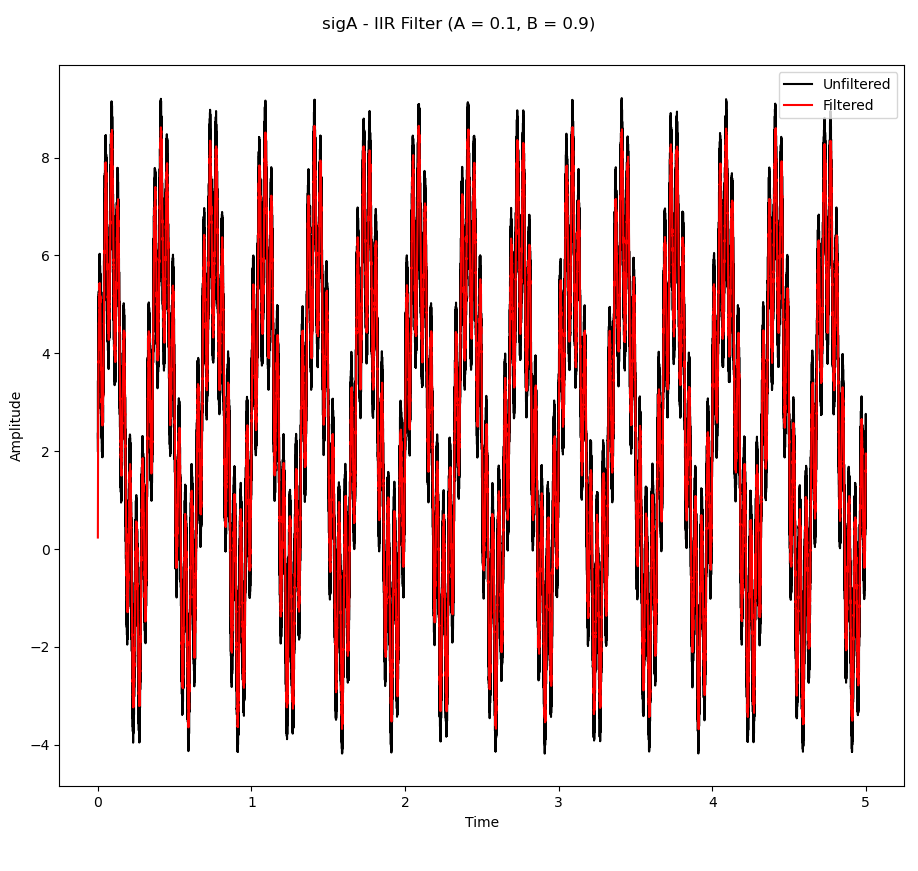
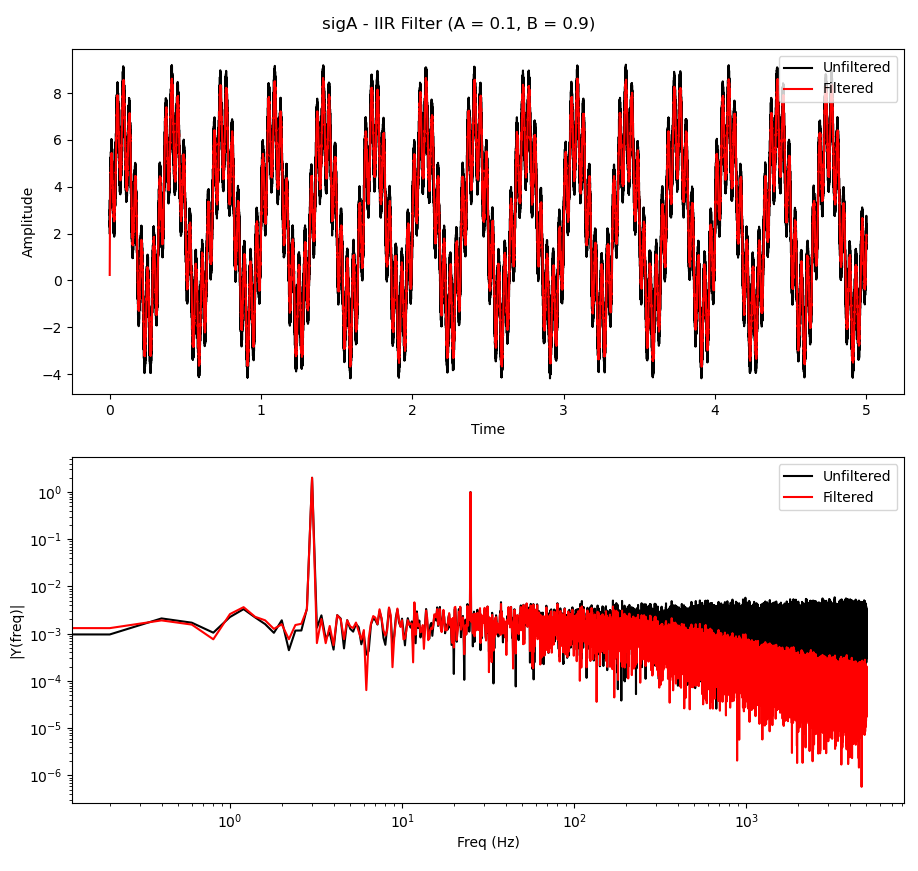
part 7 (v1)

diff --git a/Homework9/hw9.py b/Homework9/hw9.py
@@ -15,16 +15,16 @@ def read_csv(file_name, t, signal):
 
 # fft
 def calc_fft(t, signal):
-    Fs = 10000 # sample rate
-    Ts = 1.0/Fs; # sampling interval
-    ts = np.arange(0,t[-1],Ts) # time vector
-    y = np.interp(ts, t, signal) # the data to make the fft from
-    n = len(y) # length of the signal
+    Fs = 10000
+    Ts = 1.0/Fs
+    ts = np.arange(0,t[-1],Ts)
+    y = np.interp(ts, t, signal)
+    n = len(y)
     k = np.arange(n)
     T = n/Fs
-    frq = k/T # two sides frequency range
-    frq = frq[range(int(n/2))] # one side frequency range
-    Y = np.fft.fft(y)/n # fft computing and normalization
+    frq = k/T
+    frq = frq[range(int(n/2))]
+    Y = np.fft.fft(y)/n
     Y = Y[range(int(n/2))]
 
     # plot
@@ -47,40 +47,58 @@ def moving_avg_filter(signal, x):
     return out
 
 # iir filter
-def iir_filter(data, A, B):
-    datanew = []
+def iir_filter(signal, A, B):
+    sig_new = []
     y_prev = 0
-    for i in range(len(data)):
-        y = A * data[i] + (B) * y_prev
-        datanew.append(y)
+    for i in range(len(signal)):
+        y = A * signal[i] + (B) * y_prev
+        sig_new.append(y)
         y_prev = y
-    return datanew
+    return sig_new
 
 # fir filter
-def fir_filter(data, h):
-    n = len(data)
-    m = len(h)
-    datanew = []
-    for i in range(n):
-        y = 0.0
-        for j in range(m):
-            if i - j >= 0:
-                y += h[j] * data[i - j]
-        datanew.append(y)
-    return datanew
+def fir_filter(signal, h):
+    return np.convolve(np.asarray(signal, dtype=float), h, mode='full')[:len(signal)]
 
 # plot filtered signal
 def plot_filtered(time, original, filtered, title):
-    fig, ax = plt.subplots(figsize=(10, 6))
+    Fs  = 10000
+    Ts  = 1.0 / Fs
+ 
+    # original fft
+    ts_orig = np.arange(0, time[-1], Ts)
+    y_orig  = np.interp(ts_orig, time, original)
+    n_o     = len(y_orig)
+    frq_o   = np.arange(n_o) / (n_o / Fs)
+    frq_o   = frq_o[:n_o // 2]
+    Y_o     = np.fft.fft(y_orig) / n_o
+    Y_o     = Y_o[:n_o // 2]
+ 
+    # filtered fft
+    filt_arr = np.array(filtered)
+    n_f      = len(filt_arr)
+    frq_f    = np.arange(n_f) / (n_f / Fs)
+    frq_f    = frq_f[:n_f // 2]
+    Y_f      = np.fft.fft(filt_arr) / n_f
+    Y_f      = Y_f[:n_f // 2]
+ 
+    fig, (ax1, ax2) = plt.subplots(2, 1, figsize=(10, 8))
     fig.suptitle(title)
-    ax.plot(time, original, 'k', label='Unfiltered')
-    ax.plot(time[:len(filtered)], filtered, 'r', label='Filtered')
-    ax.set_xlabel('Time')
-    ax.set_ylabel('Amplitude')
-    ax.legend()
+ 
+    ax1.plot(time, original, 'k', label='Unfiltered')
+    ax1.plot(time[:len(filtered)], filtered, 'r', label='Filtered')
+    ax1.set_xlabel('Time')
+    ax1.set_ylabel('Amplitude')
+    ax1.legend()
+ 
+    ax2.loglog(frq_o, np.abs(Y_o), 'k', label='Unfiltered')
+    ax2.loglog(frq_f, np.abs(Y_f), 'r', label='Filtered')
+    ax2.set_xlabel('Freq (Hz)')
+    ax2.set_ylabel('|Y(freq)|')
+    ax2.legend()
+ 
     plt.tight_layout()
     plt.show()
-
 
 # read signal csv files
 t_A, signal_A = [], []
@@ -93,10 +111,10 @@ read_csv('sigC.csv', t_C, signal_C)
 read_csv('sigD.csv', t_D, signal_D)
 
 # calculate and plot fft
-# calc_fft(t_A, signal_A)
-# calc_fft(t_B, signal_B)
-# calc_fft(t_C, signal_C)
-# calc_fft(t_D, signal_D)
+calc_fft(t_A, signal_A)
+calc_fft(t_B, signal_B)
+calc_fft(t_C, signal_C)
+calc_fft(t_D, signal_D)
 
 # calculate and plot moving average filter
 maf_A = moving_avg_filter(signal_A, 20)
@@ -115,7 +133,77 @@ iir_B = iir_filter(signal_B, 0.4, 0.6)
 iir_C = iir_filter(signal_C, 0.1, 0.9)
 iir_D = iir_filter(signal_D, 0.1, 0.9)
 
-plot_filtered(t_A, signal_A, iir_A, 'sigA - IIR Filter (A = 0.1, B = 0.9)')
-plot_filtered(t_B, signal_B, iir_B, 'sigB - IIR Filter (A = 0.4, B = 0.6)')
-plot_filtered(t_C, signal_C, iir_C, 'sigC - IIR Filter (A = 0.1, B = 0.9)')
-plot_filtered(t_D, signal_D, iir_D, 'sigD - IIR Filter (A = 0.1, B = 0.9)')
+# plot_filtered(t_A, signal_A, iir_A, 'sigA - IIR Filter (A = 0.1, B = 0.9)')
+# plot_filtered(t_B, signal_B, iir_B, 'sigB - IIR Filter (A = 0.4, B = 0.6)')
+# plot_filtered(t_C, signal_C, iir_C, 'sigC - IIR Filter (A = 0.1, B = 0.9)')
+# plot_filtered(t_D, signal_D, iir_D, 'sigD - IIR Filter (A = 0.1, B = 0.9)')
+
+# calculate and plot fir filter
+# sigA: Fs=500, fc=100Hz, bandwidth=50Hz, Hamming window
+h_A = []
+# sigB: Fs=10000, fc=175Hz, bandwidth=80Hz, Blackman window
+h_B = [0.0000000000, -0.0000000527, -0.0000001821, -0.0000003390, -0.0000004677, -0.0000005079, -0.0000003960, -0.0000000682, 0.0000005385, 0.0000014828, 0.0000028177, 0.0000045877, 0.0000068264, 0.0000095545, 0.0000127778, 0.0000164852, 0.0000206468, 0.0000252134, 0.0000301145, 0.0000352588, 0.0000405332, 0.0000458039, 0.0000509168, 0.0000556992, 0.0000599619, 0.0000635016, 0.0000661042, 0.0000675485, 0.0000676107, 0.0000660688, 0.0000627079, 0.0000573261, 0.0000497402, 0.0000397918, 0.0000273534, 0.0000123349, -0.0000053104, -0.0000255803, -0.0000484179, -0.0000737070, -0.0001012681, -0.0001308549, -0.0001621521, -0.0001947743, -0.0002282663, -0.0002621044, -0.0002956992, -0.0003284007, -0.0003595039, -0.0003882567, -0.0004138691, -0.0004355246, -0.0004523919, -0.0004636393, -0.0004684494, -0.0004660356, -0.0004556591, -0.0004366465, -0.0004084080, -0.0003704555, -0.0003224208, -0.0002640727, -0.0001953336, -0.0001162945, -0.0000272287, 0.0000713970, 0.0001789130, 0.0002944408, 0.0004168898, 0.0005449571, 0.0006771313, 0.0008116998, 0.0009467604, 0.0010802364, 0.0012098961, 0.0013333762, 0.0014482093, 0.0015518549, 0.0016417339, 0.0017152661, 0.0017699113, 0.0018032114, 0.0018128356, 0.0017966255, 0.0017526420, 0.0016792112, 0.0015749695, 0.0014389079, 0.0012704129, 0.0010693046, 0.0008358718, 0.0005709009, 0.0002757010, -0.0000478780, -0.0003974336, -0.0007700050, -0.0011620770, -0.0015695895, -0.0019879566, -0.0024120933, -0.0028364507, -0.0032550591, -0.0036615792, -0.0040493610, -0.0044115090, -0.0047409552, -0.0050305364, -0.0052730774, -0.0054614777, -0.0055888014, -0.0056483686, -0.0056338481, -0.0055393485, -0.0053595087, -0.0050895844, -0.0047255308, -0.0042640793, -0.0037028079, -0.0030402035, -0.0022757147, -0.0014097955, -0.0004439380, 0.0006193072, 0.0017763216, 0.0030224228, 0.0043518807, 0.0057579471, 0.0072328979, 0.0087680880, 0.0103540183, 0.0119804145, 0.0136363162, 0.0153101766, 0.0169899706, 0.0186633104, 0.0203175680, 0.0219400020, 0.0235178878, 0.0250386497, 0.0264899934, 0.0278600368, 0.0291374370, 0.0303115141, 0.0313723670, 0.0323109827, 0.0331193358, 0.0337904772, 0.0343186121, 0.0346991647, 0.0349288290, 0.0350056067, 0.0349288290, 0.0346991647, 0.0343186121, 0.0337904772, 0.0331193358, 0.0323109827, 0.0313723670, 0.0303115141, 0.0291374370, 0.0278600368, 0.0264899934, 0.0250386497, 0.0235178878, 0.0219400020, 0.0203175680, 0.0186633104, 0.0169899706, 0.0153101766, 0.0136363162, 0.0119804145, 0.0103540183, 0.0087680880, 0.0072328979, 0.0057579471, 0.0043518807, 0.0030224228, 0.0017763216, 0.0006193072, -0.0004439380, -0.0014097955, -0.0022757147, -0.0030402035, -0.0037028079, -0.0042640793, -0.0047255308, -0.0050895844, -0.0053595087, -0.0055393485, -0.0056338481, -0.0056483686, -0.0055888014, -0.0054614777, -0.0052730774, -0.0050305364, -0.0047409552, -0.0044115090, -0.0040493610, -0.0036615792, -0.0032550591, -0.0028364507, -0.0024120933, -0.0019879566, -0.0015695895, -0.0011620770, -0.0007700050, -0.0003974336, -0.0000478780, 0.0002757010, 0.0005709009, 0.0008358718, 0.0010693046, 0.0012704129, 0.0014389079, 0.0015749695, 0.0016792112, 0.0017526420, 0.0017966255, 0.0018128356, 0.0018032114, 0.0017699113, 0.0017152661, 0.0016417339, 0.0015518549, 0.0014482093, 0.0013333762, 0.0012098961, 0.0010802364, 0.0009467604, 0.0008116998, 0.0006771313, 0.0005449571, 0.0004168898, 0.0002944408, 0.0001789130, 0.0000713970, -0.0000272287, -0.0001162945, -0.0001953336, -0.0002640727, -0.0003224208, -0.0003704555, -0.0004084080, -0.0004366465, -0.0004556591, -0.0004660356, -0.0004684494, -0.0004636393, -0.0004523919, -0.0004355246, -0.0004138691, -0.0003882567, -0.0003595039, -0.0003284007, -0.0002956992, -0.0002621044, -0.0002282663, -0.0001947743, -0.0001621521, -0.0001308549, -0.0001012681, -0.0000737070, -0.0000484179, -0.0000255803, -0.0000053104, 0.0000123349, 0.0000273534, 0.0000397918, 0.0000497402, 0.0000573261, 0.0000627079, 0.0000660688, 0.0000676107, 0.0000675485, 0.0000661042, 0.0000635016, 0.0000599619, 0.0000556992, 0.0000509168, 0.0000458039, 0.0000405332, 0.0000352588, 0.0000301145, 0.0000252134, 0.0000206468, 0.0000164852, 0.0000127778, 0.0000095545, 0.0000068264, 0.0000045877, 0.0000028177, 0.0000014828, 0.0000005385, -0.0000000682, -0.0000003960, -0.0000005079, -0.0000004677, -0.0000003390, -0.0000001821, -0.0000000527, 0.0000000000]
+# sigC: Fs=10000, fc=6Hz, bandwidth=3Hz, Hamming window
+h_C = [0.0000000000, 0.0000001384, 0.0000005541, 0.0000012482, 0.0000022216, 0.0000034752, 0.0000050097, 0.0000068259, 0.0000089246, 0.0000113064, 0.0000139719, 0.0000169216, 0.0000201561, 0.0000236758, 0.0000274811, 0.0000315723, 0.0000359498, 0.0000406137, 0.0000455643, 0.0000508016, 0.0000563258, 0.0000621368, 0.0000682346, 0.0000746191, 0.0000812902, 0.0000882477, 0.0000954913, 0.0001030206, 0.0001108354, 0.0001189352, 0.0001273195, 0.0001359878, 0.0001449396, 0.0001541741, 0.0001636906, 0.0001734885, 0.0001835669, 0.0001939249, 0.0002045616, 0.0002154761, 0.0002266674, 0.0002381343, 0.0002498757, 0.0002618905, 0.0002741773, 0.0002867349, 0.0002995620, 0.0003126571, 0.0003260188, 0.0003396456, 0.0003535359, 0.0003676880, 0.0003821004, 0.0003967714, 0.0004116990, 0.0004268816, 0.0004423171, 0.0004580039, 0.0004739397, 0.0004901226, 0.0005065506, 0.0005232215, 0.0005401330, 0.0005572831, 0.0005746694, 0.0005922896, 0.0006101413, 0.0006282221, 0.0006465295, 0.0006650611, 0.0006838142, 0.0007027863, 0.0007219746, 0.0007413766, 0.0007609894, 0.0007808102, 0.0008008364, 0.0008210648, 0.0008414927, 0.0008621171, 0.0008829350, 0.0009039433, 0.0009251390, 0.0009465188, 0.0009680798, 0.0009898186, 0.0010117321, 0.0010338168, 0.0010560696, 0.0010784871, 0.0011010658, 0.0011238024, 0.0011466934, 0.0011697353, 0.0011929245, 0.0012162576, 0.0012397308, 0.0012633407, 0.0012870834, 0.0013109554, 0.0013349529, 0.0013590722, 0.0013833094, 0.0014076608, 0.0014321226, 0.0014566909, 0.0014813618, 0.0015061314, 0.0015309957, 0.0015559509, 0.0015809928, 0.0016061177, 0.0016313213, 0.0016565997, 0.0016819487, 0.0017073644, 0.0017328426, 0.0017583792, 0.0017839700, 0.0018096110, 0.0018352978, 0.0018610265, 0.0018867927, 0.0019125922, 0.0019384209, 0.0019642744, 0.0019901486, 0.0020160392, 0.0020419420, 0.0020678526, 0.0020937668, 0.0021196803, 0.0021455888, 0.0021714880, 0.0021973737, 0.0022232415, 0.0022490871, 0.0022749062, 0.0023006945, 0.0023264477, 0.0023521615, 0.0023778316, 0.0024034536, 0.0024290234, 0.0024545365, 0.0024799887, 0.0025053757, 0.0025306932, 0.0025559371, 0.0025811029, 0.0026061864, 0.0026311835, 0.0026560898, 0.0026809011, 0.0027056133, 0.0027302221, 0.0027547234, 0.0027791130, 0.0028033867, 0.0028275403, 0.0028515699, 0.0028754712, 0.0028992402, 0.0029228729, 0.0029463651, 0.0029697129, 0.0029929122, 0.0030159591, 0.0030388496, 0.0030615799, 0.0030841459, 0.0031065438, 0.0031287697, 0.0031508199, 0.0031726905, 0.0031943777, 0.0032158778, 0.0032371872, 0.0032583020, 0.0032792187, 0.0032999337, 0.0033204433, 0.0033407441, 0.0033608324, 0.0033807048, 0.0034003579, 0.0034197882, 0.0034389925, 0.0034579672, 0.0034767092, 0.0034952152, 0.0035134820, 0.0035315064, 0.0035492852, 0.0035668154, 0.0035840938, 0.0036011176, 0.0036178836, 0.0036343891, 0.0036506311, 0.0036666067, 0.0036823133, 0.0036977479, 0.0037129081, 0.0037277910, 0.0037423941, 0.0037567148, 0.0037707507, 0.0037844992, 0.0037979580, 0.0038111247, 0.0038239970, 0.0038365726, 0.0038488493, 0.0038608251, 0.0038724977, 0.0038838651, 0.0038949254, 0.0039056766, 0.0039161168, 0.0039262441, 0.0039360568, 0.0039455532, 0.0039547316, 0.0039635904, 0.0039721280, 0.0039803430, 0.0039882338, 0.0039957991, 0.0040030375, 0.0040099479, 0.0040165289, 0.0040227794, 0.0040286984, 0.0040342847, 0.0040395373, 0.0040444555, 0.0040490382, 0.0040532848, 0.0040571943, 0.0040607662, 0.0040639999, 0.0040668947, 0.0040694501, 0.0040716657, 0.0040735411, 0.0040750760, 0.0040762700, 0.0040771231, 0.0040776350, 0.0040778056, 0.0040776350, 0.0040771231, 0.0040762700, 0.0040750760, 0.0040735411, 0.0040716657, 0.0040694501, 0.0040668947, 0.0040639999, 0.0040607662, 0.0040571943, 0.0040532848, 0.0040490382, 0.0040444555, 0.0040395373, 0.0040342847, 0.0040286984, 0.0040227794, 0.0040165289, 0.0040099479, 0.0040030375, 0.0039957991, 0.0039882338, 0.0039803430, 0.0039721280, 0.0039635904, 0.0039547316, 0.0039455532, 0.0039360568, 0.0039262441, 0.0039161168, 0.0039056766, 0.0038949254, 0.0038838651, 0.0038724977, 0.0038608251, 0.0038488493, 0.0038365726, 0.0038239970, 0.0038111247, 0.0037979580, 0.0037844992, 0.0037707507, 0.0037567148, 0.0037423941, 0.0037277910, 0.0037129081, 0.0036977479, 0.0036823133, 0.0036666067, 0.0036506311, 0.0036343891, 0.0036178836, 0.0036011176, 0.0035840938, 0.0035668154, 0.0035492852, 0.0035315064, 0.0035134820, 0.0034952152, 0.0034767092, 0.0034579672, 0.0034389925, 0.0034197882, 0.0034003579, 0.0033807048, 0.0033608324, 0.0033407441, 0.0033204433, 0.0032999337, 0.0032792187, 0.0032583020, 0.0032371872, 0.0032158778, 0.0031943777, 0.0031726905, 0.0031508199, 0.0031287697, 0.0031065438, 0.0030841459, 0.0030615799, 0.0030388496, 0.0030159591, 0.0029929122, 0.0029697129, 0.0029463651, 0.0029228729, 0.0028992402, 0.0028754712, 0.0028515699, 0.0028275403, 0.0028033867, 0.0027791130, 0.0027547234, 0.0027302221, 0.0027056133, 0.0026809011, 0.0026560898, 0.0026311835, 0.0026061864, 0.0025811029, 0.0025559371, 0.0025306932, 0.0025053757, 0.0024799887, 0.0024545365, 0.0024290234, 0.0024034536, 0.0023778316, 0.0023521615, 0.0023264477, 0.0023006945, 0.0022749062, 0.0022490871, 0.0022232415, 0.0021973737, 0.0021714880, 0.0021455888, 0.0021196803, 0.0020937668, 0.0020678526, 0.0020419420, 0.0020160392, 0.0019901486, 0.0019642744, 0.0019384209, 0.0019125922, 0.0018867927, 0.0018610265, 0.0018352978, 0.0018096110, 0.0017839700, 0.0017583792, 0.0017328426, 0.0017073644, 0.0016819487, 0.0016565997, 0.0016313213, 0.0016061177, 0.0015809928, 0.0015559509, 0.0015309957, 0.0015061314, 0.0014813618, 0.0014566909, 0.0014321226, 0.0014076608, 0.0013833094, 0.0013590722, 0.0013349529, 0.0013109554, 0.0012870834, 0.0012633407, 0.0012397308, 0.0012162576, 0.0011929245, 0.0011697353, 0.0011466934, 0.0011238024, 0.0011010658, 0.0010784871, 0.0010560696, 0.0010338168, 0.0010117321, 0.0009898186, 0.0009680798, 0.0009465188, 0.0009251390, 0.0009039433, 0.0008829350, 0.0008621171, 0.0008414927, 0.0008210648, 0.0008008364, 0.0007808102, 0.0007609894, 0.0007413766, 0.0007219746, 0.0007027863, 0.0006838142, 0.0006650611, 0.0006465295, 0.0006282221, 0.0006101413, 0.0005922896, 0.0005746694, 0.0005572831, 0.0005401330, 0.0005232215, 0.0005065506, 0.0004901226, 0.0004739397, 0.0004580039, 0.0004423171, 0.0004268816, 0.0004116990, 0.0003967714, 0.0003821004, 0.0003676880, 0.0003535359, 0.0003396456, 0.0003260188, 0.0003126571, 0.0002995620, 0.0002867349, 0.0002741773, 0.0002618905, 0.0002498757, 0.0002381343, 0.0002266674, 0.0002154761, 0.0002045616, 0.0001939249, 0.0001835669, 0.0001734885, 0.0001636906, 0.0001541741, 0.0001449396, 0.0001359878, 0.0001273195, 0.0001189352, 0.0001108354, 0.0001030206, 0.0000954913, 0.0000882477, 0.0000812902, 0.0000746191, 0.0000682346, 0.0000621368, 0.0000563258, 0.0000508016, 0.0000455643, 0.0000406137, 0.0000359498, 0.0000315723, 0.0000274811, 0.0000236758, 0.0000201561, 0.0000169216, 0.0000139719, 0.0000113064, 0.0000089246, 0.0000068259, 0.0000050097, 0.0000034752, 0.0000022216, 0.0000012482, 0.0000005541, 0.0000001384, 0.0000000000]
+# sigD: Fs=400, fc=20Hz, bandwidth=44Hz, Blackman window
+h_D = [
+    0.000000000000000000,
+    0.000000000000000000,
+    -0.000043672089000418,
+    -0.000204580160908659,
+    -0.000555065247288825,
+    -0.001141535448085219,
+    -0.001947901083597524,
+    -0.002852691365094061,
+    -0.003592000230068647,
+    -0.003744545898292157,
+    -0.002754370012987700,
+    0.000000000000000001,
+    0.005092825091478808,
+    0.012911651306323034,
+    0.023519782398285741,
+    0.036555430092548170,
+    0.051199390635266052,
+    0.066231008756770515,
+    0.080173155648180755,
+    0.091505518092516613,
+    0.098907300477361626,
+    0.101480598073183395,
+    0.098907300477361640,
+    0.091505518092516627,
+    0.080173155648180769,
+    0.066231008756770501,
+    0.051199390635266039,
+    0.036555430092548177,
+    0.023519782398285758,
+    0.012911651306323031,
+    0.005092825091478812,
+    0.000000000000000001,
+    -0.002754370012987700,
+    -0.003744545898292158,
+    -0.003592000230068644,
+    -0.002852691365094067,
+    -0.001947901083597526,
+    -0.001141535448085218,
+    -0.000555065247288827,
+    -0.000204580160908659,
+    -0.000043672089000418,
+    0.000000000000000000,
+    0.000000000000000000,
+]
+
+# calculate and plot fir filter
+h_A = np.array(h_A)
+h_B = np.array(h_B)
+h_C = np.array(h_C)
+h_D = np.array(h_D)
+
+fir_A = fir_filter(signal_A, h_A)
+fir_B = fir_filter(signal_B, h_B)
+fir_C = fir_filter(signal_C, h_C)
+fir_D = fir_filter(signal_D, h_D)
+
+plot_filtered(t_A, signal_A, fir_A, 'sigA - FIR Low-Pass Sinc | fc=100Hz | Hamming')
+plot_filtered(t_B, signal_B, fir_B, 'sigB - FIR Low-Pass Sinc | fc=175Hz | Blackman')
+plot_filtered(t_C, signal_C, fir_C, 'sigC - FIR Low-Pass Sinc | fc=6Hz | Hanning')
+plot_filtered(t_D, signal_D, fir_D, 'sigD - FIR Low-Pass Sinc | fc=20Hz | Blackman')
